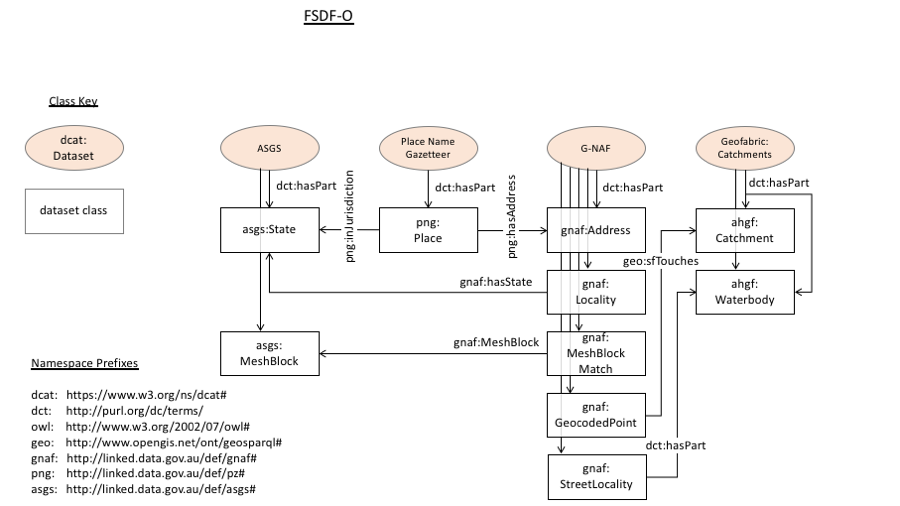
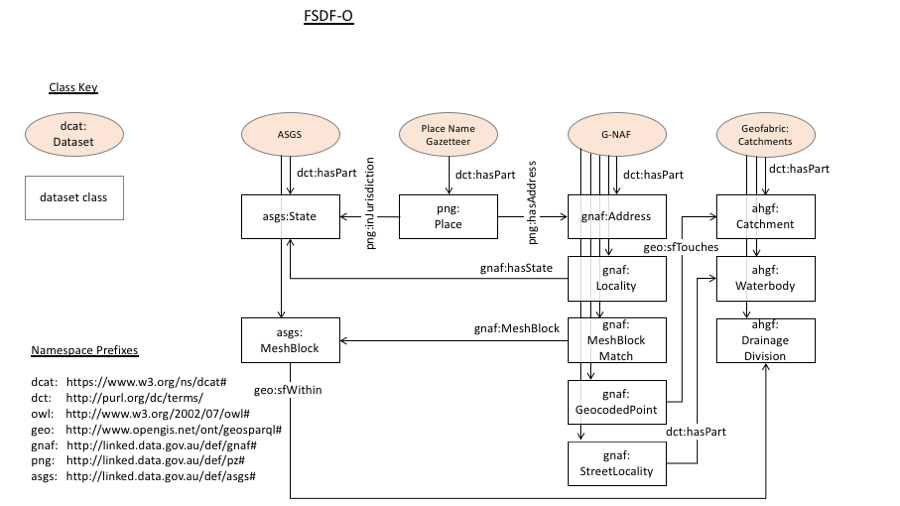
ASGS <-> Geofabric

Changed region(s): [[0.0311, 0.2075, 0.9333, 1.0], [0.0311, 0.1482, 0.1556, 0.4447]]

diff --git a/examples/examples.md b/examples/examples.md
@@ -32,3 +32,9 @@ Data within the [National Gazetteer of Australia](https://link.fsdf.org.au/datas
 
 ![PNG, ASGS & G-NAF class relationships](fig-05.png)  
 **Figure 5**: PNG, ASGS & G-NAF class relationships
+
+
+## E.G. 4: ASGS & Geofabric relations
+
+![ASGS & Geofabric relations](fig-06.png)  
+**Figure 5**: ASGS & Geofabric relations
